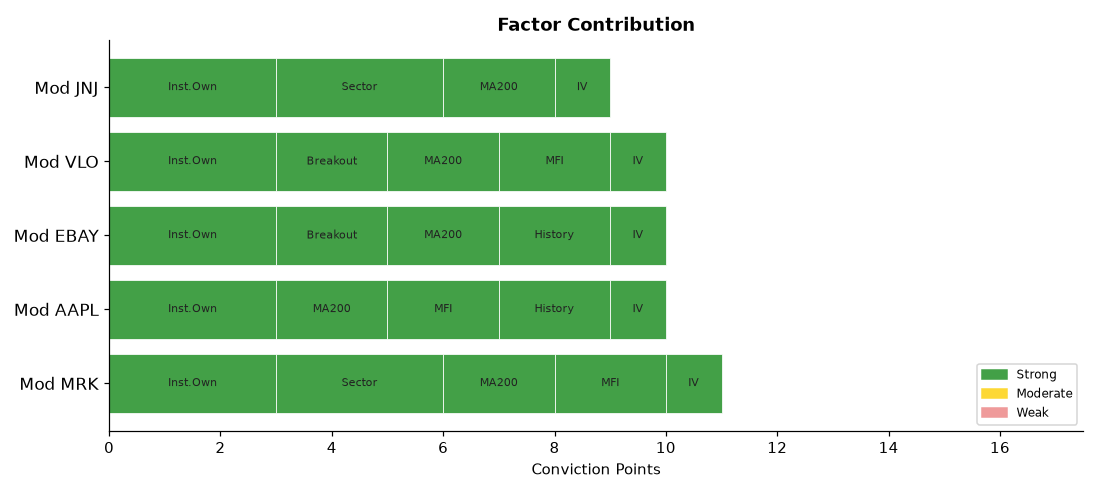
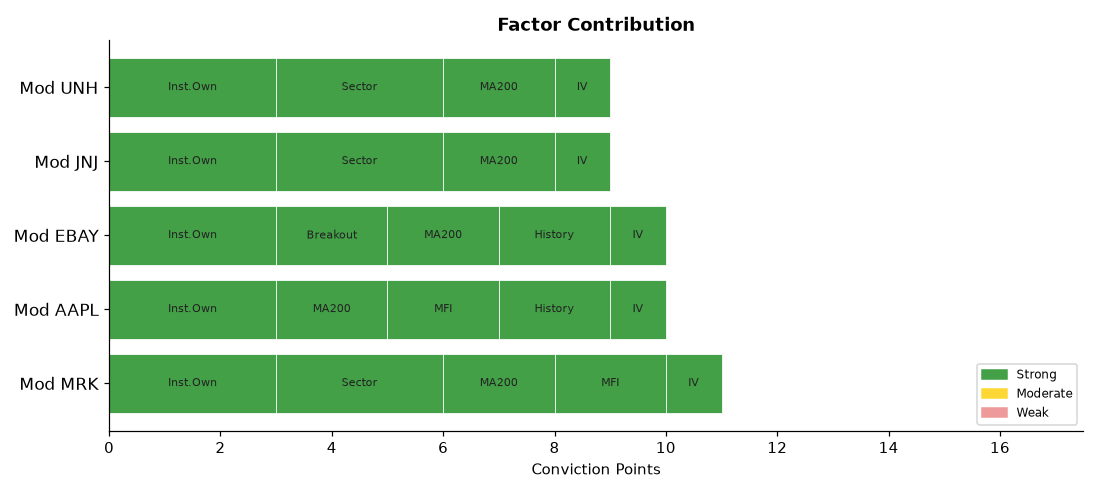
deploy: b7fadf5b06deb90e7ebb92f278722414bdd9750d

diff --git a/index.html b/index.html
@@ -4,7 +4,7 @@
   <meta charset="UTF-8">
   <meta name="viewport" content="width=device-width,initial-scale=1">
   <meta http-equiv="Cache-Control" content="no-cache,no-store,must-revalidate">
-  <title>Stock Breakout Screener — 2026-07-29 15:06</title>
+  <title>Stock Breakout Screener — 2026-07-29 15:25</title>
   <style>
     *{box-sizing:border-box;margin:0;padding:0}
     body{font-family:'Segoe UI',Arial,sans-serif;background:#f0f2f5;
@@ -34,7 +34,7 @@
 
 <div class="hdr">
   <h1>📈 Stock Breakout Screener</h1>
-  <p>Updated: 2026-07-29 15:06 UTC &nbsp;·&nbsp; Phase: Regular Market Hours &nbsp;·&nbsp;
+  <p>Updated: 2026-07-29 15:25 UTC &nbsp;·&nbsp; Phase: Regular Market Hours &nbsp;·&nbsp;
      129 stocks screened &nbsp;·&nbsp; Top 5 by conviction score</p>
 </div>
 
@@ -69,7 +69,7 @@
             </span>
           </div>
           <ul style="margin:0;padding-left:18px;font-size:13px;
-                     color:#333;line-height:1.8"><li style="margin:5px 0"><span style="background:#ffebee;color:#b71c1c;padding:2px 7px;border-radius:4px;font-size:11px;">❌</span> Volume: <b>0.7× average</b> — Above-average activity</li><li style="margin:5px 0"><span style="background:#ffebee;color:#b71c1c;padding:2px 7px;border-radius:4px;font-size:11px;">❌</span> Candle: close <b>$130.76</b> vs open <b>$131.01</b> (-0.2%) — regular market close</li><li style="margin:5px 0"><span style="background:#e8f5e9;color:#2e7d32;padding:2px 7px;border-radius:4px;font-size:11px;">✅</span> 200-Day MA: price <b>$130.76</b> vs MA <b>$118.08</b> — <b>✅ Above</b> long-term trend</li><li style="margin:5px 0"><span style="background:#e8f5e9;color:#2e7d32;padding:2px 7px;border-radius:4px;font-size:11px;">✅</span> Inst. ownership: <b>82.3%</b> · MFI: <b>65.3</b> · Market cap: <b>$322.7B</b></li></ul>
+                     color:#333;line-height:1.8"><li style="margin:5px 0"><span style="background:#ffebee;color:#b71c1c;padding:2px 7px;border-radius:4px;font-size:11px;">❌</span> Volume: <b>0.7× average</b> — Above-average activity</li><li style="margin:5px 0"><span style="background:#ffebee;color:#b71c1c;padding:2px 7px;border-radius:4px;font-size:11px;">❌</span> Candle: close <b>$130.76</b> vs open <b>$131.01</b> (-0.2%) — regular market close</li><li style="margin:5px 0"><span style="background:#e8f5e9;color:#2e7d32;padding:2px 7px;border-radius:4px;font-size:11px;">✅</span> 200-Day MA: price <b>$130.76</b> vs MA <b>$118.09</b> — <b>✅ Above</b> long-term trend</li><li style="margin:5px 0"><span style="background:#e8f5e9;color:#2e7d32;padding:2px 7px;border-radius:4px;font-size:11px;">✅</span> Inst. ownership: <b>82.3%</b> · MFI: <b>66.6</b> · Market cap: <b>$324.1B</b></li></ul>
         </div>
         <div style="background:#fff;border:1px solid #ddd;border-radius:10px;
                     padding:16px 20px;margin-bottom:12px;
@@ -86,7 +86,7 @@
             </span>
           </div>
           <ul style="margin:0;padding-left:18px;font-size:13px;
-                     color:#333;line-height:1.8"><li style="margin:5px 0"><span style="background:#ffebee;color:#b71c1c;padding:2px 7px;border-radius:4px;font-size:11px;">❌</span> Volume: <b>0.3× average</b> — Above-average activity</li><li style="margin:5px 0"><span style="background:#ffebee;color:#b71c1c;padding:2px 7px;border-radius:4px;font-size:11px;">❌</span> Candle: close <b>$339.88</b> vs open <b>$339.69</b> (+0.1%) — regular market close</li><li style="margin:5px 0"><span style="background:#e8f5e9;color:#2e7d32;padding:2px 7px;border-radius:4px;font-size:11px;">✅</span> 200-Day MA: price <b>$339.88</b> vs MA <b>$282.78</b> — <b>✅ Above</b> long-term trend</li><li style="margin:5px 0"><span style="background:#e8f5e9;color:#2e7d32;padding:2px 7px;border-radius:4px;font-size:11px;">✅</span> Inst. ownership: <b>65.7%</b> · MFI: <b>67.0</b> · Market cap: <b>$4992.7B</b></li><li style="margin:5px 0"><span style="background:#e8f5e9;color:#2e7d32;padding:2px 7px;border-radius:4px;font-size:11px;">✅</span> Last similar breakout: <b>Jun 26, 2026</b> → <b>+11.8%</b> over 10 trading days</li></ul>
+                     color:#333;line-height:1.8"><li style="margin:5px 0"><span style="background:#ffebee;color:#b71c1c;padding:2px 7px;border-radius:4px;font-size:11px;">❌</span> Volume: <b>0.3× average</b> — Above-average activity</li><li style="margin:5px 0"><span style="background:#ffebee;color:#b71c1c;padding:2px 7px;border-radius:4px;font-size:11px;">❌</span> Candle: close <b>$340.05</b> vs open <b>$339.69</b> (+0.1%) — regular market close</li><li style="margin:5px 0"><span style="background:#e8f5e9;color:#2e7d32;padding:2px 7px;border-radius:4px;font-size:11px;">✅</span> 200-Day MA: price <b>$340.05</b> vs MA <b>$282.78</b> — <b>✅ Above</b> long-term trend</li><li style="margin:5px 0"><span style="background:#e8f5e9;color:#2e7d32;padding:2px 7px;border-radius:4px;font-size:11px;">✅</span> Inst. ownership: <b>65.7%</b> · MFI: <b>67.1</b> · Market cap: <b>$4993.8B</b></li><li style="margin:5px 0"><span style="background:#e8f5e9;color:#2e7d32;padding:2px 7px;border-radius:4px;font-size:11px;">✅</span> Last similar breakout: <b>Jun 26, 2026</b> → <b>+11.8%</b> over 10 trading days</li></ul>
         </div>
         <div style="background:#fff;border:1px solid #ddd;border-radius:10px;
                     padding:16px 20px;margin-bottom:12px;
@@ -103,7 +103,7 @@
             </span>
           </div>
           <ul style="margin:0;padding-left:18px;font-size:13px;
-                     color:#333;line-height:1.8"><li style="margin:5px 0"><span style="background:#ffebee;color:#b71c1c;padding:2px 7px;border-radius:4px;font-size:11px;">❌</span> Volume: <b>0.8× average</b> — Above-average activity</li><li style="margin:5px 0"><span style="background:#e8f5e9;color:#2e7d32;padding:2px 7px;border-radius:4px;font-size:11px;">✅</span> Candle: close <b>$113.21</b> vs open <b>$109.37</b> (+3.5%) — regular market close</li><li style="margin:5px 0"><span style="background:#e8f5e9;color:#2e7d32;padding:2px 7px;border-radius:4px;font-size:11px;">✅</span> 200-Day MA: price <b>$113.21</b> vs MA <b>$101.23</b> — <b>✅ Above</b> long-term trend</li><li style="margin:5px 0"><span style="background:#e8f5e9;color:#2e7d32;padding:2px 7px;border-radius:4px;font-size:11px;">✅</span> Inst. ownership: <b>95.8%</b> · MFI: <b>43.3</b> · Market cap: <b>$51.5B</b></li><li style="margin:5px 0"><span style="background:#e8f5e9;color:#2e7d32;padding:2px 7px;border-radius:4px;font-size:11px;">✅</span> Last similar breakout: <b>Apr 30, 2026</b> → <b>+9.4%</b> over 10 trading days</li></ul>
+                     color:#333;line-height:1.8"><li style="margin:5px 0"><span style="background:#ffebee;color:#b71c1c;padding:2px 7px;border-radius:4px;font-size:11px;">❌</span> Volume: <b>0.8× average</b> — Above-average activity</li><li style="margin:5px 0"><span style="background:#e8f5e9;color:#2e7d32;padding:2px 7px;border-radius:4px;font-size:11px;">✅</span> Candle: close <b>$113.21</b> vs open <b>$109.37</b> (+3.5%) — regular market close</li><li style="margin:5px 0"><span style="background:#e8f5e9;color:#2e7d32;padding:2px 7px;border-radius:4px;font-size:11px;">✅</span> 200-Day MA: price <b>$113.21</b> vs MA <b>$101.22</b> — <b>✅ Above</b> long-term trend</li><li style="margin:5px 0"><span style="background:#e8f5e9;color:#2e7d32;padding:2px 7px;border-radius:4px;font-size:11px;">✅</span> Inst. ownership: <b>95.8%</b> · MFI: <b>43.4</b> · Market cap: <b>$51.4B</b></li><li style="margin:5px 0"><span style="background:#e8f5e9;color:#2e7d32;padding:2px 7px;border-radius:4px;font-size:11px;">✅</span> Last similar breakout: <b>Apr 30, 2026</b> → <b>+9.4%</b> over 10 trading days</li></ul>
         </div>
         <div style="background:#fff;border:1px solid #ddd;border-radius:10px;
                     padding:16px 20px;margin-bottom:12px;
@@ -111,24 +111,7 @@
           <div style="display:flex;align-items:center;gap:10px;
                       flex-wrap:wrap;margin-bottom:10px">
             <span style="font-size:22px">🟡</span>
-            <span style="font-size:19px;font-weight:700">4. VLO</span>
-            <span style="font-size:12px;color:#666">Energy</span>
-            <span style="margin-left:auto;background:#1a237e;color:#fff;
-                         padding:3px 12px;border-radius:12px;
-                         font-size:13px;font-weight:600">
-              10/17
-            </span>
-          </div>
-          <ul style="margin:0;padding-left:18px;font-size:13px;
-                     color:#333;line-height:1.8"><li style="margin:5px 0"><span style="background:#ffebee;color:#b71c1c;padding:2px 7px;border-radius:4px;font-size:11px;">❌</span> Volume: <b>0.7× average</b> — Above-average activity</li><li style="margin:5px 0"><span style="background:#e8f5e9;color:#2e7d32;padding:2px 7px;border-radius:4px;font-size:11px;">✅</span> Candle: close <b>$304.93</b> vs open <b>$295.75</b> (+3.1%) — regular market close</li><li style="margin:5px 0"><span style="background:#e8f5e9;color:#2e7d32;padding:2px 7px;border-radius:4px;font-size:11px;">✅</span> 200-Day MA: price <b>$304.93</b> vs MA <b>$241.66</b> — <b>✅ Above</b> long-term trend</li><li style="margin:5px 0"><span style="background:#e8f5e9;color:#2e7d32;padding:2px 7px;border-radius:4px;font-size:11px;">✅</span> Inst. ownership: <b>87.8%</b> · MFI: <b>64.1</b> · Market cap: <b>$89.8B</b></li></ul>
-        </div>
-        <div style="background:#fff;border:1px solid #ddd;border-radius:10px;
-                    padding:16px 20px;margin-bottom:12px;
-                    box-shadow:0 2px 6px rgba(0,0,0,.07)">
-          <div style="display:flex;align-items:center;gap:10px;
-                      flex-wrap:wrap;margin-bottom:10px">
-            <span style="font-size:22px">🟡</span>
-            <span style="font-size:19px;font-weight:700">5. JNJ</span>
+            <span style="font-size:19px;font-weight:700">4. JNJ</span>
             <span style="font-size:12px;color:#666">Healthcare</span>
             <span style="margin-left:auto;background:#1a237e;color:#fff;
                          padding:3px 12px;border-radius:12px;
@@ -137,7 +120,24 @@
             </span>
           </div>
           <ul style="margin:0;padding-left:18px;font-size:13px;
-                     color:#333;line-height:1.8"><li style="margin:5px 0"><span style="background:#ffebee;color:#b71c1c;padding:2px 7px;border-radius:4px;font-size:11px;">❌</span> Volume: <b>1.2× average</b> — Above-average activity</li><li style="margin:5px 0"><span style="background:#ffebee;color:#b71c1c;padding:2px 7px;border-radius:4px;font-size:11px;">❌</span> Candle: close <b>$265.95</b> vs open <b>$262.55</b> (+1.3%) — regular market close</li><li style="margin:5px 0"><span style="background:#e8f5e9;color:#2e7d32;padding:2px 7px;border-radius:4px;font-size:11px;">✅</span> 200-Day MA: price <b>$265.95</b> vs MA <b>$238.39</b> — <b>✅ Above</b> long-term trend</li><li style="margin:5px 0"><span style="background:#e8f5e9;color:#2e7d32;padding:2px 7px;border-radius:4px;font-size:11px;">✅</span> Inst. ownership: <b>76.8%</b> · MFI: <b>41.4</b> · Market cap: <b>$641.9B</b></li></ul>
+                     color:#333;line-height:1.8"><li style="margin:5px 0"><span style="background:#ffebee;color:#b71c1c;padding:2px 7px;border-radius:4px;font-size:11px;">❌</span> Volume: <b>1.2× average</b> — Above-average activity</li><li style="margin:5px 0"><span style="background:#ffebee;color:#b71c1c;padding:2px 7px;border-radius:4px;font-size:11px;">❌</span> Candle: close <b>$265.95</b> vs open <b>$262.55</b> (+1.3%) — regular market close</li><li style="margin:5px 0"><span style="background:#e8f5e9;color:#2e7d32;padding:2px 7px;border-radius:4px;font-size:11px;">✅</span> 200-Day MA: price <b>$265.95</b> vs MA <b>$238.40</b> — <b>✅ Above</b> long-term trend</li><li style="margin:5px 0"><span style="background:#e8f5e9;color:#2e7d32;padding:2px 7px;border-radius:4px;font-size:11px;">✅</span> Inst. ownership: <b>76.8%</b> · MFI: <b>41.5</b> · Market cap: <b>$644.8B</b></li></ul>
+        </div>
+        <div style="background:#fff;border:1px solid #ddd;border-radius:10px;
+                    padding:16px 20px;margin-bottom:12px;
+                    box-shadow:0 2px 6px rgba(0,0,0,.07)">
+          <div style="display:flex;align-items:center;gap:10px;
+                      flex-wrap:wrap;margin-bottom:10px">
+            <span style="font-size:22px">🟡</span>
+            <span style="font-size:19px;font-weight:700">5. UNH</span>
+            <span style="font-size:12px;color:#666">Healthcare</span>
+            <span style="margin-left:auto;background:#1a237e;color:#fff;
+                         padding:3px 12px;border-radius:12px;
+                         font-size:13px;font-weight:600">
+              9/17
+            </span>
+          </div>
+          <ul style="margin:0;padding-left:18px;font-size:13px;
+                     color:#333;line-height:1.8"><li style="margin:5px 0"><span style="background:#ffebee;color:#b71c1c;padding:2px 7px;border-radius:4px;font-size:11px;">❌</span> Volume: <b>0.6× average</b> — Above-average activity</li><li style="margin:5px 0"><span style="background:#ffebee;color:#b71c1c;padding:2px 7px;border-radius:4px;font-size:11px;">❌</span> Candle: close <b>$417.64</b> vs open <b>$422.51</b> (-1.2%) — regular market close</li><li style="margin:5px 0"><span style="background:#e8f5e9;color:#2e7d32;padding:2px 7px;border-radius:4px;font-size:11px;">✅</span> 200-Day MA: price <b>$417.64</b> vs MA <b>$346.21</b> — <b>✅ Above</b> long-term trend</li><li style="margin:5px 0"><span style="background:#e8f5e9;color:#2e7d32;padding:2px 7px;border-radius:4px;font-size:11px;">✅</span> Inst. ownership: <b>86.2%</b> · MFI: <b>44.5</b> · Market cap: <b>$386.8B</b></li></ul>
         </div>
 
 
@@ -176,10 +176,10 @@
           <td style="background:#c8e6c9">
             82.3%</td>
           <td style="background:#c8e6c9">
-            65.3</td>
+            66.6</td>
           <td style="background:#c8e6c9">Healthcare</td>
           <td style="background:#c8e6c9">
-            91.0%</td>
+            104.0%</td>
           <td style="background:#ffcdd2">
             N/A</td>
           <td style="font-weight:800;font-size:15px">11/17</td>
@@ -194,10 +194,10 @@
           <td style="background:#c8e6c9">
             65.7%</td>
           <td style="background:#c8e6c9">
-            67.0</td>
+            67.1</td>
           <td style="background:#ffcdd2">Technology</td>
           <td style="background:#c8e6c9">
-            166.6%</td>
+            135.0%</td>
           <td style="background:#c8e6c9">
             +11.8%</td>
           <td style="font-weight:800;font-size:15px">10/17</td>
@@ -212,30 +212,12 @@
           <td style="background:#c8e6c9">
             95.8%</td>
           <td style="background:#ffcdd2">
-            43.3</td>
+            43.4</td>
           <td style="background:#ffcdd2">Consumer Disc</td>
           <td style="background:#c8e6c9">
-            81.8%</td>
+            84.3%</td>
           <td style="background:#c8e6c9">
             +9.4%</td>
-          <td style="font-weight:800;font-size:15px">10/17</td>
-        </tr>
-        <tr>
-          <td style="font-weight:700;text-align:left;padding-left:10px">
-            🟡 VLO</td>
-          <td style="background:#ffcdd2">0.7×</td>
-          <td style="background:#c8e6c9">+3.1%</td>
-          <td style="background:#c8e6c9">
-            ▲ Above</td>
-          <td style="background:#c8e6c9">
-            87.8%</td>
-          <td style="background:#c8e6c9">
-            64.1</td>
-          <td style="background:#ffcdd2">Energy</td>
-          <td style="background:#c8e6c9">
-            141.9%</td>
-          <td style="background:#ffcdd2">
-            N/A</td>
           <td style="font-weight:800;font-size:15px">10/17</td>
         </tr>
         <tr>
@@ -248,10 +230,28 @@
           <td style="background:#c8e6c9">
             76.8%</td>
           <td style="background:#ffcdd2">
-            41.4</td>
+            41.5</td>
           <td style="background:#c8e6c9">Healthcare</td>
           <td style="background:#c8e6c9">
-            154.8%</td>
+            131.1%</td>
+          <td style="background:#ffcdd2">
+            N/A</td>
+          <td style="font-weight:800;font-size:15px">9/17</td>
+        </tr>
+        <tr>
+          <td style="font-weight:700;text-align:left;padding-left:10px">
+            🟡 UNH</td>
+          <td style="background:#ffcdd2">0.6×</td>
+          <td style="background:#ffcdd2">-1.2%</td>
+          <td style="background:#c8e6c9">
+            ▲ Above</td>
+          <td style="background:#c8e6c9">
+            86.2%</td>
+          <td style="background:#ffcdd2">
+            44.5</td>
+          <td style="background:#c8e6c9">Healthcare</td>
+          <td style="background:#c8e6c9">
+            99.3%</td>
           <td style="background:#ffcdd2">
             N/A</td>
           <td style="font-weight:800;font-size:15px">9/17</td>
@@ -278,57 +278,57 @@
         <tr>
           <td style="text-align:left;padding-left:10px;font-weight:600">
             #1 Healthcare</td>
-          <td style="background:#e8f5e9;color:#2e7d32;font-weight:700">+2.39%</td>
+          <td style="background:#e8f5e9;color:#2e7d32;font-weight:700">+2.56%</td>
         </tr>
         <tr>
           <td style="text-align:left;padding-left:10px;font-weight:600">
             #2 Consumer Stpl</td>
-          <td style="background:#e8f5e9;color:#2e7d32;font-weight:700">+2.30%</td>
+          <td style="background:#e8f5e9;color:#2e7d32;font-weight:700">+2.43%</td>
         </tr>
         <tr>
           <td style="text-align:left;padding-left:10px;font-weight:600">
             #3 Comm. Services</td>
-          <td style="background:#e8f5e9;color:#2e7d32;font-weight:700">+1.57%</td>
+          <td style="background:#e8f5e9;color:#2e7d32;font-weight:700">+1.72%</td>
         </tr>
         <tr>
           <td style="text-align:left;padding-left:10px;font-weight:600">
             #4 Consumer Disc</td>
-          <td style="background:#e8f5e9;color:#2e7d32;font-weight:700">+1.08%</td>
+          <td style="background:#e8f5e9;color:#2e7d32;font-weight:700">+1.16%</td>
         </tr>
         <tr>
           <td style="text-align:left;padding-left:10px;font-weight:600">
             #5 Energy</td>
-          <td style="background:#e8f5e9;color:#2e7d32;font-weight:700">+0.81%</td>
+          <td style="background:#e8f5e9;color:#2e7d32;font-weight:700">+0.92%</td>
         </tr>
         <tr>
           <td style="text-align:left;padding-left:10px;font-weight:600">
             #6 Financials</td>
-          <td style="background:#e8f5e9;color:#2e7d32;font-weight:700">+0.45%</td>
+          <td style="background:#e8f5e9;color:#2e7d32;font-weight:700">+0.47%</td>
         </tr>
         <tr>
           <td style="text-align:left;padding-left:10px;font-weight:600">
             #7 Materials</td>
-          <td style="background:#e8f5e9;color:#2e7d32;font-weight:700">+0.06%</td>
+          <td style="background:#e8f5e9;color:#2e7d32;font-weight:700">+0.05%</td>
         </tr>
         <tr>
           <td style="text-align:left;padding-left:10px;font-weight:600">
             #8 Real Estate</td>
-          <td style="background:#ffebee;color:#c62828;font-weight:700">-0.13%</td>
+          <td style="background:#ffebee;color:#c62828;font-weight:700">+0.00%</td>
         </tr>
         <tr>
           <td style="text-align:left;padding-left:10px;font-weight:600">
             #9 Utilities</td>
-          <td style="background:#ffebee;color:#c62828;font-weight:700">-1.27%</td>
+          <td style="background:#ffebee;color:#c62828;font-weight:700">-1.16%</td>
         </tr>
         <tr>
           <td style="text-align:left;padding-left:10px;font-weight:600">
             #10 Industrials</td>
-          <td style="background:#ffebee;color:#c62828;font-weight:700">-2.82%</td>
+          <td style="background:#ffebee;color:#c62828;font-weight:700">-2.94%</td>
         </tr>
         <tr>
           <td style="text-align:left;padding-left:10px;font-weight:600">
             #11 Technology</td>
-          <td style="background:#ffebee;color:#c62828;font-weight:700">-3.05%</td>
+          <td style="background:#ffebee;color:#c62828;font-weight:700">-3.13%</td>
         </tr>
     </table>
   </div>
@@ -367,7 +367,7 @@
         <li><b>Scoring weights:</b>
             Inst.Own(3) · Sector(3) · Volume(2) · Breakout(2) ·
             MA200(2) · MFI(2) · History(2) · IV(1) = 17pts max</li>
-        <li><b>Run time:</b> 2026-07-29 15:06 UTC — Market phase: Regular Market Hours</li>
+        <li><b>Run time:</b> 2026-07-29 15:25 UTC — Market phase: Regular Market Hours</li>
       </ul>
     </div>
 
